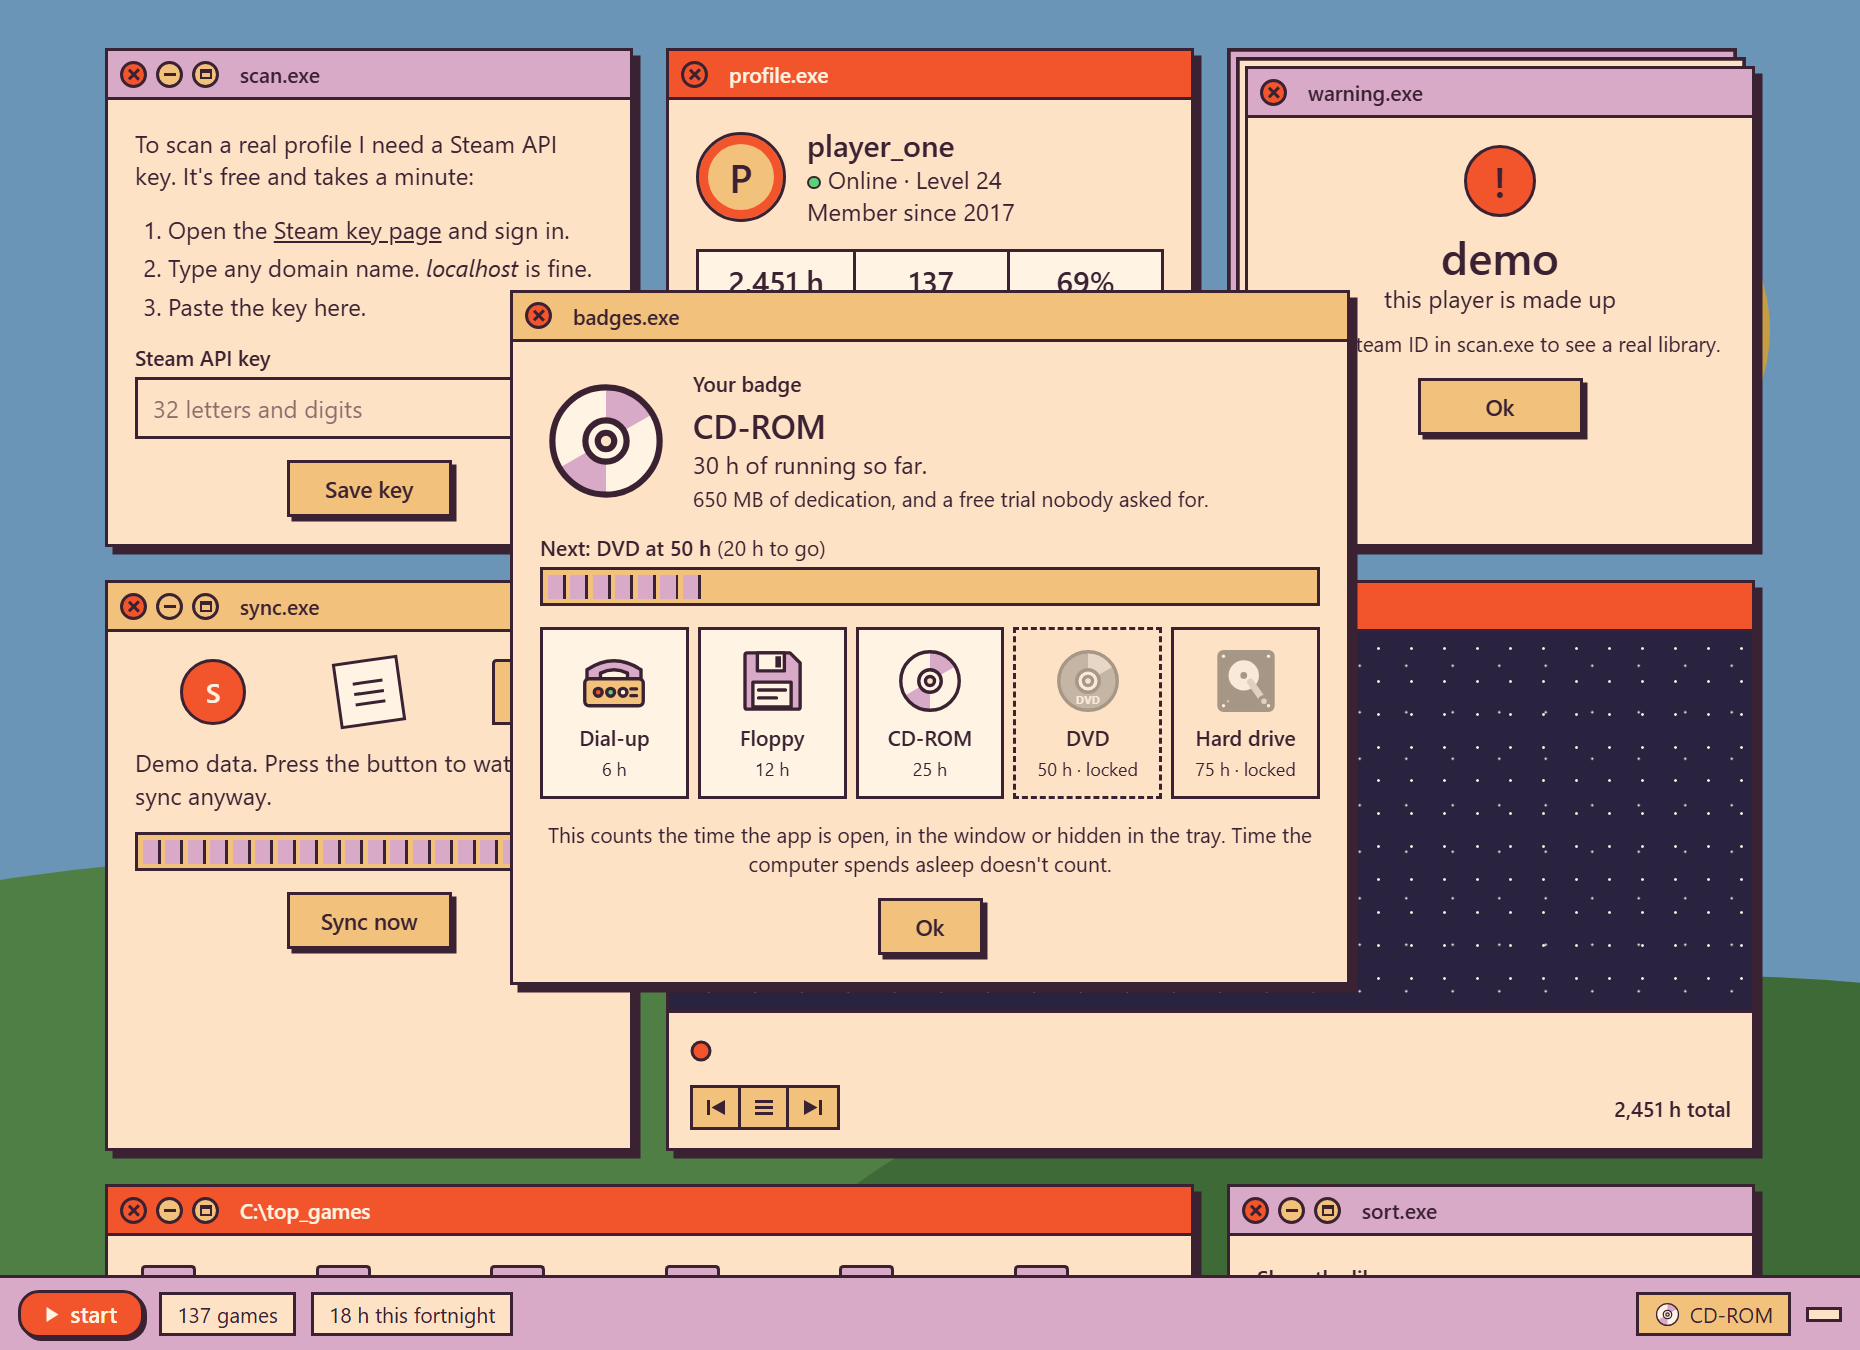
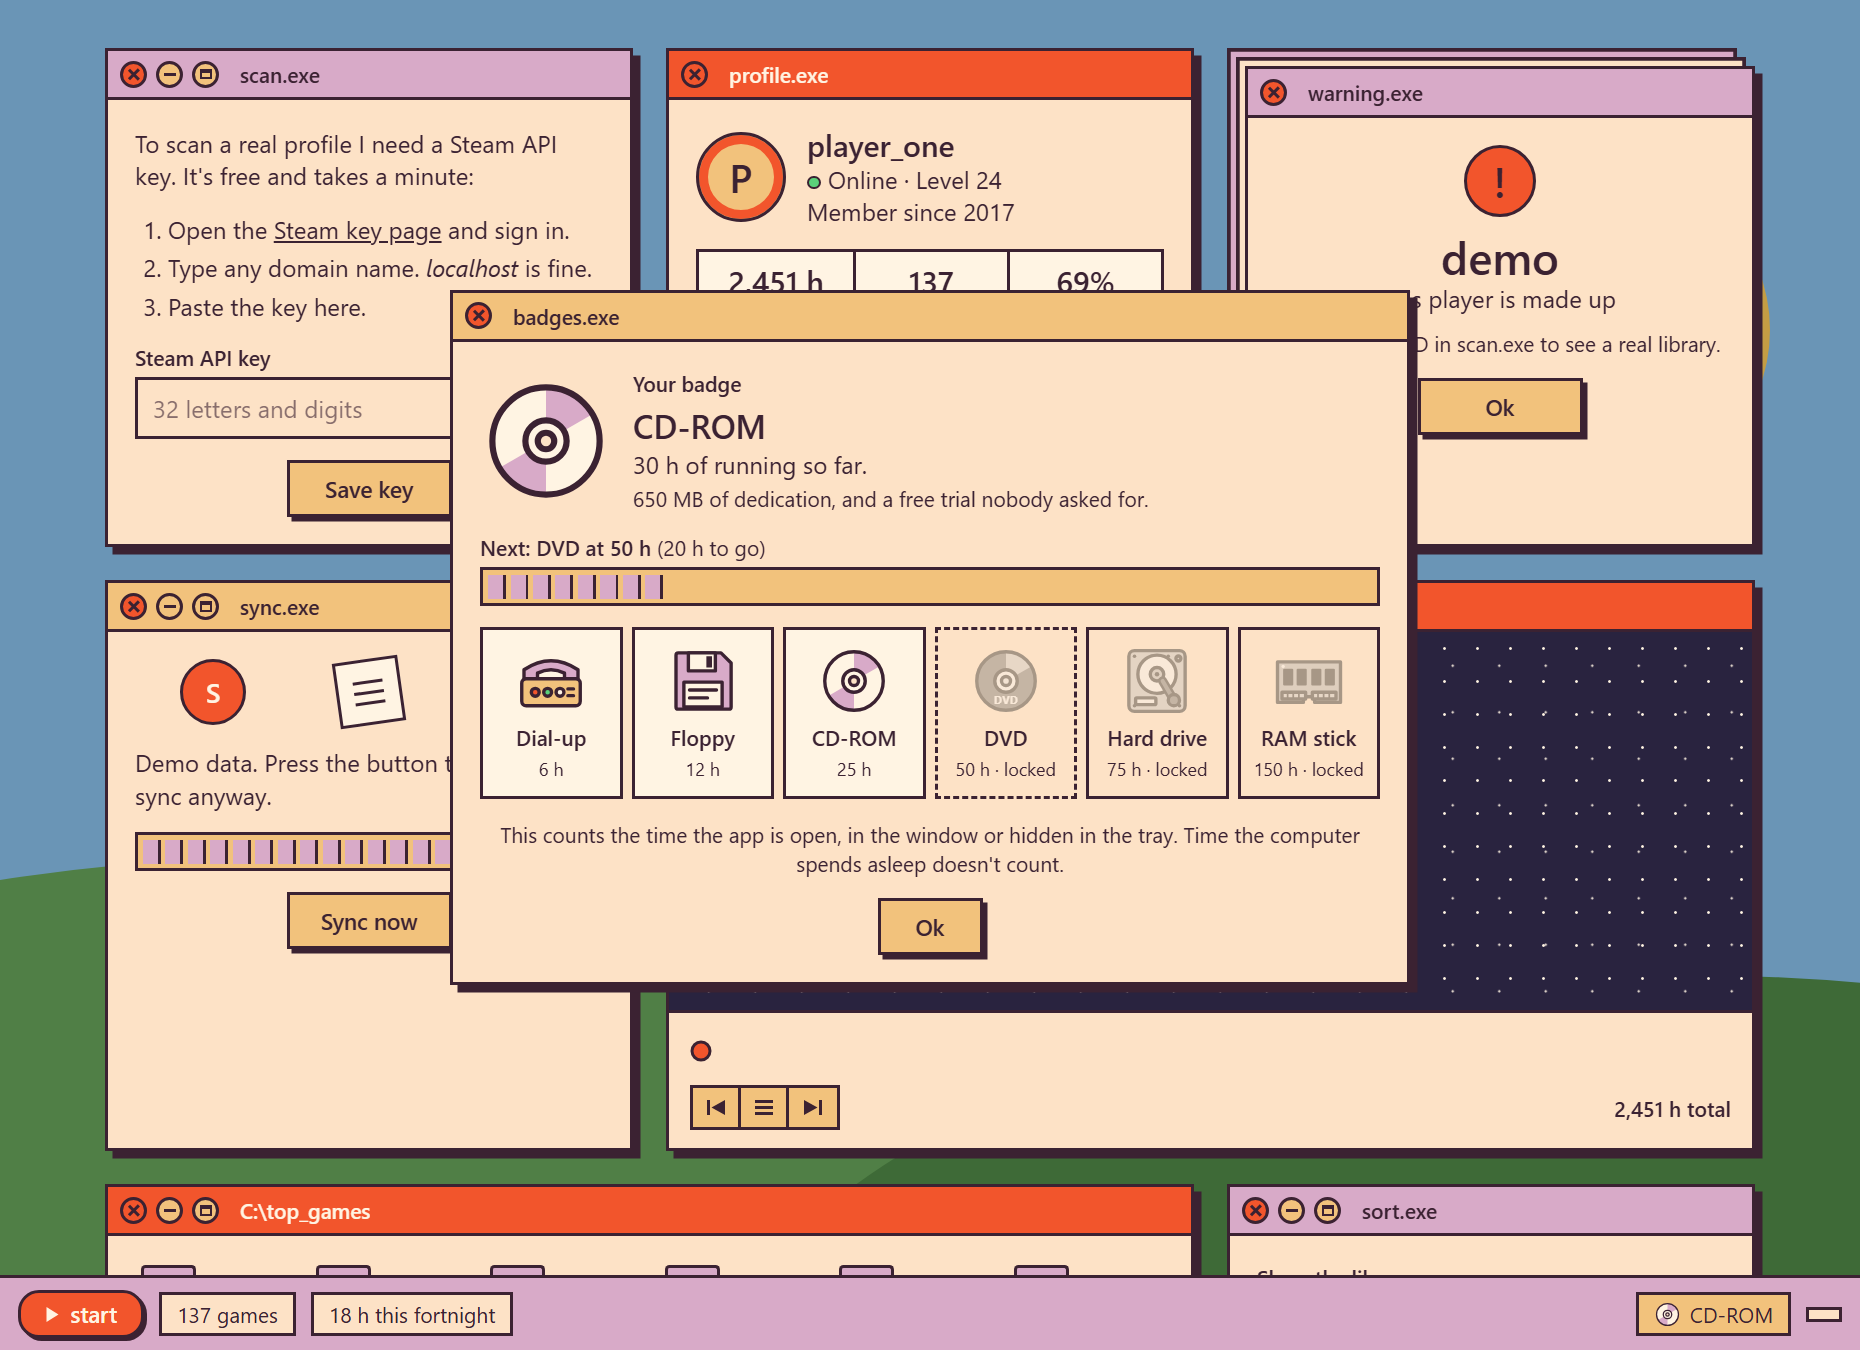
Describe the RAM stick and the profile.exe badges, retake the screenshots

Changed region(s): [[0.2183, 0.2178, 0.7796, 0.7467], [0.2495, 0.7156, 0.2806, 0.7467]]

diff --git a/README.md b/README.md
@@ -21,7 +21,7 @@ It opens in its own window (not a browser tab), works without an API key thanks 
 - **Every scanned player in the start menu**, one click to switch. Done comparing with a friend? The red button next to their name forgets them: the app deletes their library, history and achievements, and their Steam account isn't touched.
 - **Lives in the tray**, like Steam or Discord. Closing the window hides it next to the clock instead of quitting (the first time, Windows shows a short notice saying so). Click the icon to bring the window back; right-click it, or use Start > Shut down, to quit. Prefer the old way? Untick "Keep running in the tray" in Start > Settings.
 - **Starts with Windows, if you want it to.** Tick "Start with Windows, in the tray" in Start > Settings and the app starts hidden next to the clock when you log in, so the hourly sync runs without you opening anything. It's off until you turn it on, and only the installed app offers it.
-- **Badges for keeping it running**, a retro-tech ladder: Dial-up after 6 hours, then Floppy (12), CD-ROM (25), DVD (50) and Hard drive (75). The app counts the time it's open, in the window or in the tray, and time the computer spends asleep doesn't count. Your badge sits next to the clock; click it for badges.exe and the whole ladder. A new one gets a popup (and a Windows notice if the app is in the tray).
+- **Badges for keeping it running**, a retro-tech ladder: Dial-up after 6 hours, then Floppy (12), CD-ROM (25), DVD (50), Hard drive (75) and RAM stick (150). The app counts the time it's open, in the window or in the tray, and time the computer spends asleep doesn't count. They show in profile.exe and next to the clock; click either for badges.exe and the whole ladder. A new one gets a popup (and a Windows notice if the app is in the tray).
 - **Syncs by itself.** While the app is open, in the window or in the tray, it syncs every saved player about once an hour, so the playtime history fills in without you remembering to open it. Right-click the tray icon for Sync now. sync.exe says when the last background sync ran, and if it brought new numbers while you were looking, a "New data" button shows up in the taskbar. You can switch it off in Start > Settings.
 
 [Full-page screenshot](docs/dashboard-full.png) · [trophies.exe](docs/trophies.png) · [badges.exe](docs/badges.png)
@@ -101,7 +101,7 @@ packaging/     the PyInstaller and Inno Setup recipes build_exe.bat uses
 templates/     one file per window, built from a shared window macro
 static/css/    theme.css (all colours, fonts, sizes) and style.css (layout)
 static/js/     window manager, scan progress, library, trophies, charts
-tests/         301 tests; none can reach Steam or the real registry
+tests/         302 tests; none can reach Steam or the real registry
 ```
 
 A few decisions worth explaining:
